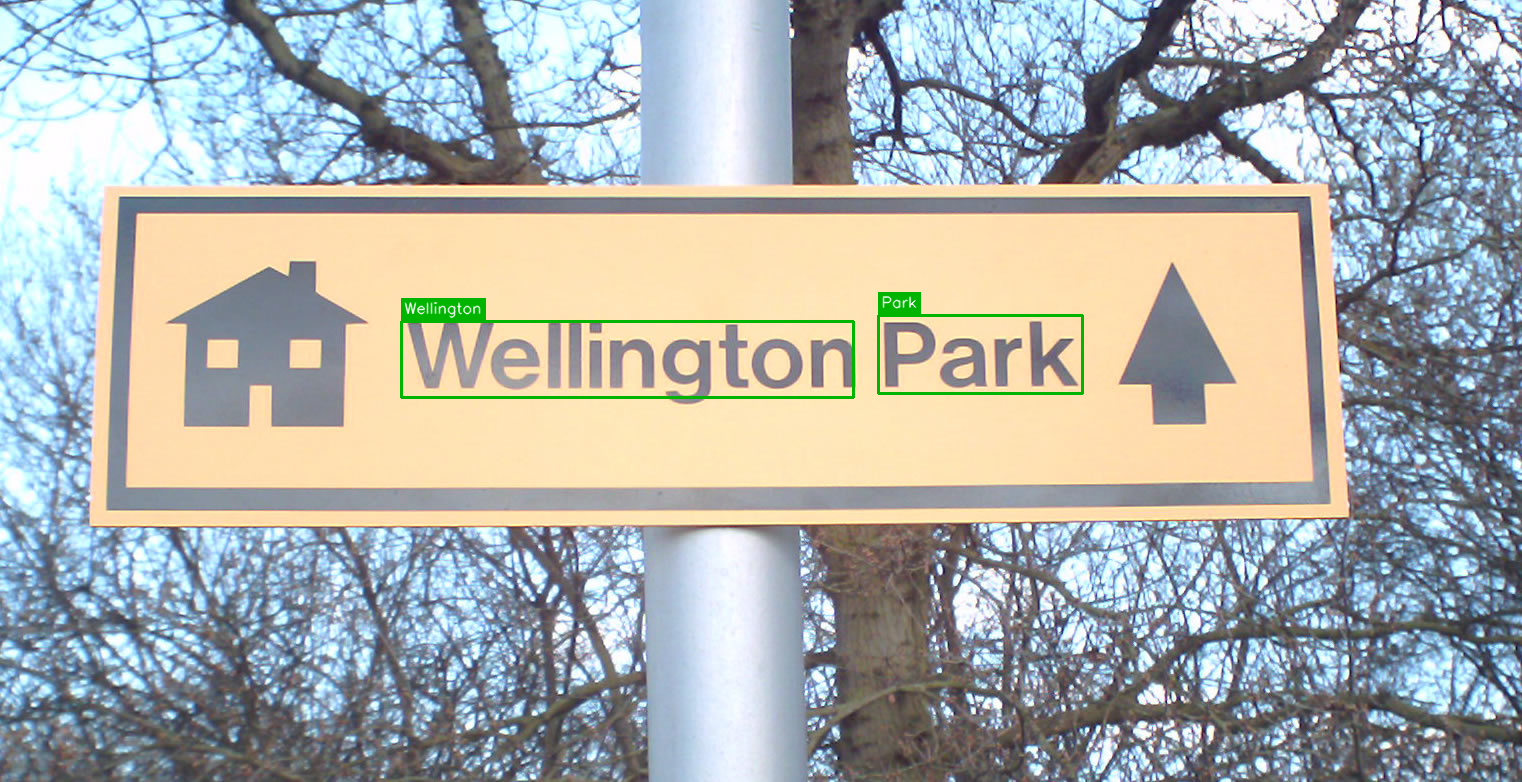
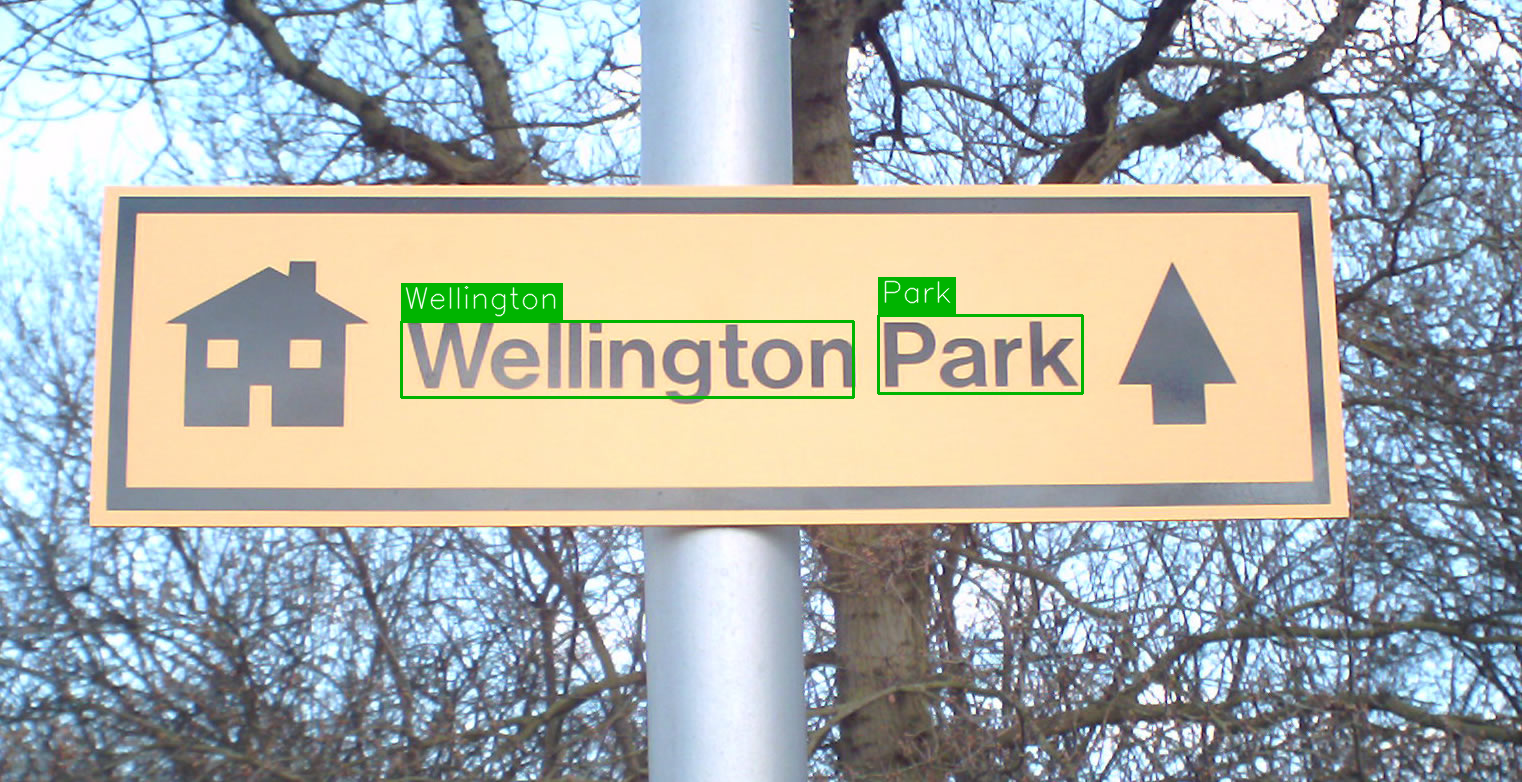
changed font scale and annotated image

Changed region(s): [[0.247, 0.3376, 0.3706, 0.4297], [0.5558, 0.3376, 0.6485, 0.399]]

diff --git a/ocr_engine/engine.py b/ocr_engine/engine.py
@@ -21,7 +21,7 @@ def draw_annotations(image, text_results):
     annotated = image.copy()
     height, width = annotated.shape[:2]
     font = cv2.FONT_HERSHEY_SIMPLEX
-    font_scale = 0.5
+    font_scale = 1
     color = (0, 180, 0)
 
     for index, item in enumerate(text_results, 1):
